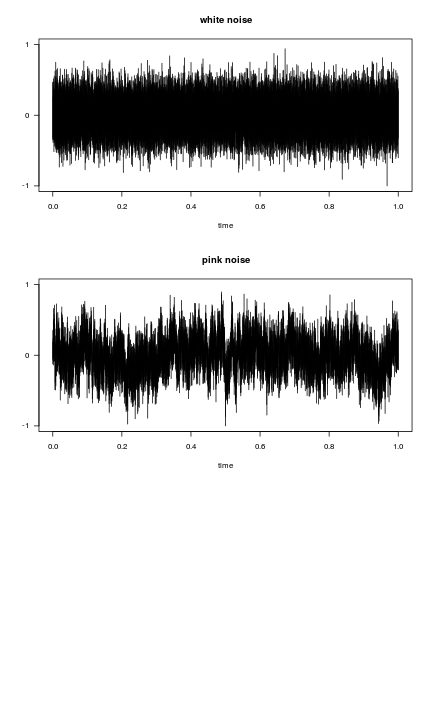
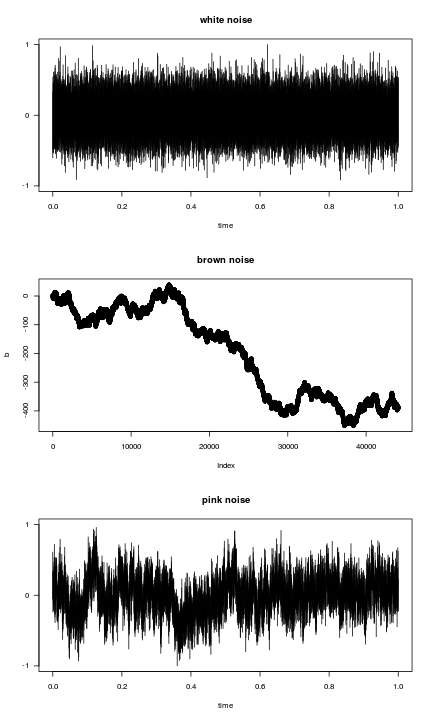
ok

diff --git a/inst/examples/noise_simulations.md b/inst/examples/noise_simulations.md
@@ -16,14 +16,9 @@ w <- noise(kind = c("white"))
 
 # Brown noise is integrated white noise
 # (ie. random walk)
-b <- cumsum(w)
-```
+# Use same time series length as in the other series
+b <- cumsum(rnorm(length(w@left)))
 
-```
-## Error in eval(expr, envir, enclos): no method for coercing this S4 class to a vector
-```
-
-```r
 # Pink noise
 p <- noise(kind = c("pink"))
 
@@ -31,13 +26,6 @@ p <- noise(kind = c("pink"))
 par(mfrow=c(3,1))
 plot(w,main="white noise")
 plot(b,main="brown noise")
-```
-
-```
-## Error in plot(b, main = "brown noise"): error in evaluating the argument 'x' in selecting a method for function 'plot': Error: object 'b' not found
-```
-
-```r
 plot(p,main="pink noise")
 ```
 
@@ -52,10 +40,10 @@ Hwhite <- hurstexp(w@left, d = 128)
 ```
 
 ```
-## Simple R/S Hurst estimation:         0.5358669 
-## Corrected R over S Hurst exponent:   0.5454923 
-## Empirical Hurst exponent:            0.5230614 
-## Corrected empirical Hurst exponent:  0.5080329 
+## Simple R/S Hurst estimation:         0.4936968 
+## Corrected R over S Hurst exponent:   0.5136791 
+## Empirical Hurst exponent:            0.5221794 
+## Corrected empirical Hurst exponent:  0.5066996 
 ## Theoretical Hurst exponent:          0.5151584
 ```
 
@@ -64,7 +52,11 @@ Hbrown <- hurstexp(b, d = 128)
 ```
 
 ```
-## Error in stopifnot(is.numeric(x), is.numeric(d)): object 'b' not found
+## Simple R/S Hurst estimation:         0.9285047 
+## Corrected R over S Hurst exponent:   1.010464 
+## Empirical Hurst exponent:            1.008459 
+## Corrected empirical Hurst exponent:  1.004516 
+## Theoretical Hurst exponent:          0.5151584
 ```
 
 ```r
@@ -72,10 +64,10 @@ Hpink <- hurstexp(p@left, d = 128)
 ```
 
 ```
-## Simple R/S Hurst estimation:         0.8012564 
-## Corrected R over S Hurst exponent:   0.888189 
-## Empirical Hurst exponent:            0.889189 
-## Corrected empirical Hurst exponent:  0.8832739 
+## Simple R/S Hurst estimation:         0.8094879 
+## Corrected R over S Hurst exponent:   0.9094174 
+## Empirical Hurst exponent:            0.9345781 
+## Corrected empirical Hurst exponent:  0.9286394 
 ## Theoretical Hurst exponent:          0.5151584
 ```
 
